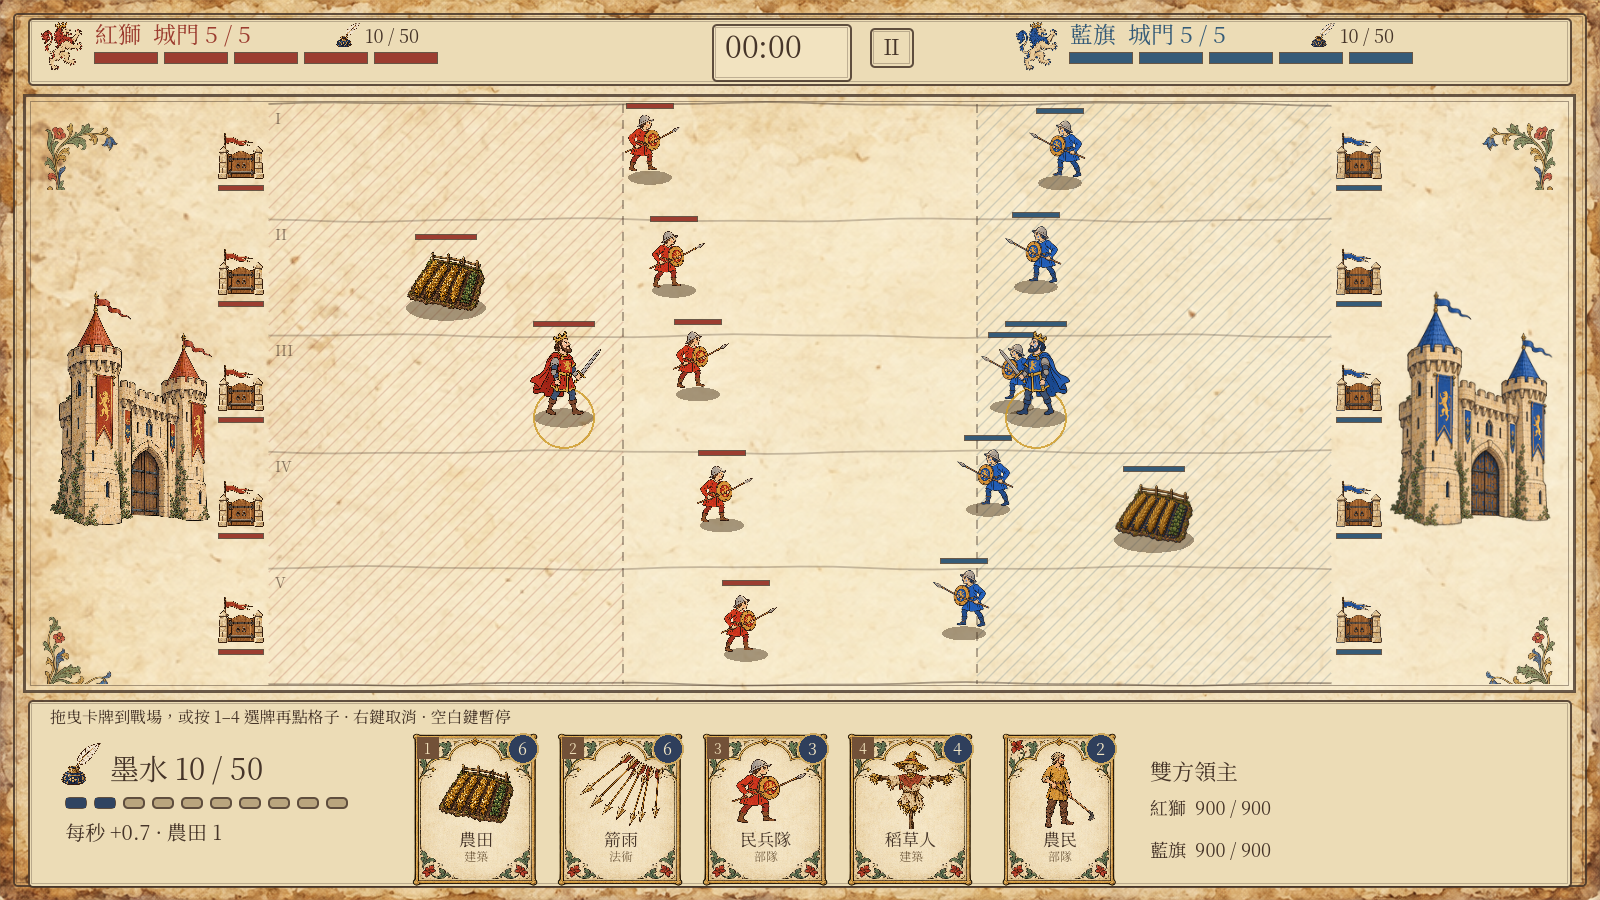
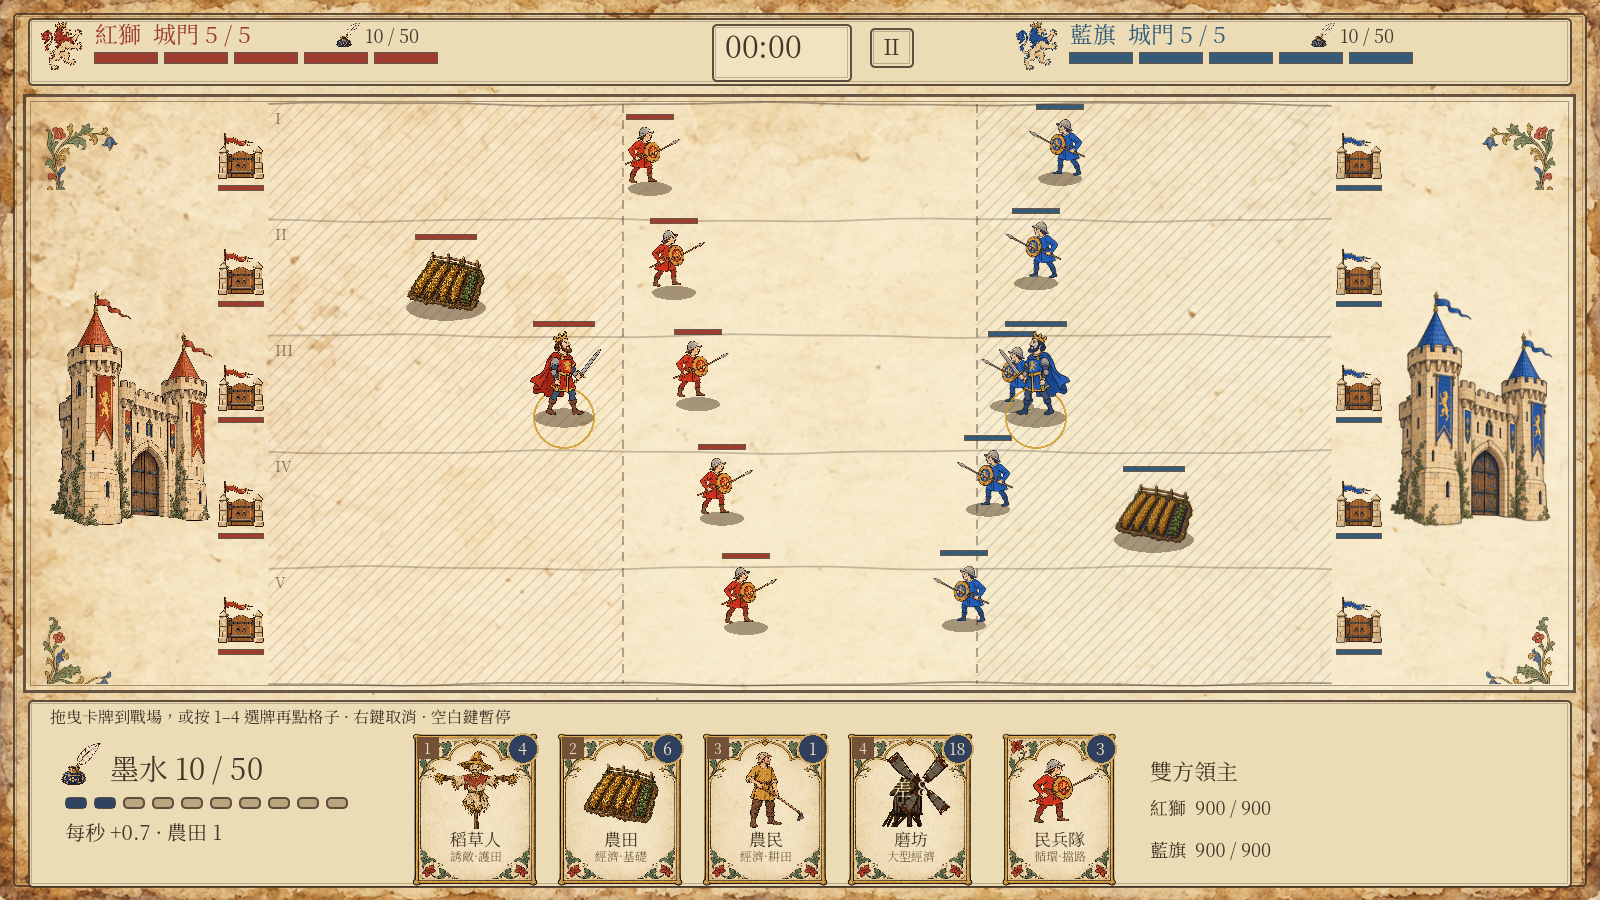
Card roles and a 1-30 ink cost range
Every card gets a role shown on its face (economy, cycle, swarm,
ranged, defence, tank, finisher...). Costs now run from 1 (farmer) to
30 (ram) with stats scaled to match: knight 15 / 1000 HP, mill 18 / x2
lane farms, fire 11 / 420 dmg, ram 30 / 1600 HP, 160 per hit on gates.
The AI sends the ram once it has 40 ink or the target gate is below 60%.
Card tests read numbers from balance.gd. Producer decision 2026-10-29.

diff --git a/docs/企劃書.md b/docs/企劃書.md
@@ -9,6 +9,7 @@
 >   - **卡牌只分三類：部隊、建築、法術。部隊一律往敵方前進，不會回頭。**
 >   - **領主完全由 AI 接管**（雙方），沒有手動操作。
 > - v4.1：**墨水上限 10 → 50**。墨水數字整體 ×2（費用、回復、產量），讓費用分得更細；出牌冷卻、AI 門檻、介面跟著調整。
+> - v4.7（2026-10-29）：卡牌依定位重排，費用 1–30（見第 11 節）。
 > - v4.6（2026-10-29）：領主只能待在自家領地（原始 3 欄部署區），刪除旋斬與號令技能。
 > - v4.4（2026-10-29）：城門 600 → 400 血；**城門破了以後，每個敵兵都要在門口停 3 秒拆殘垣才能走進去**，讓領主有時間回防。
 > - v4.3（2026-10-29）：**城門不會反擊，防守全靠領主**（加上部隊、建築、法術）。
@@ -126,44 +127,30 @@
 | **建築** | 我方原始部署區的**空格**（一格一個） | 固定不動，有生命值；會被敵方部隊攻擊。部分建築有存在時間。 |
 | **法術** | 戰場任意位置（包含敵方部署區） | 立即或短延遲生效，沒有實體。 |
 
-### 11. 卡池（15 張）
+### 11. 卡池（15 張，費用 1–30，v4.7 依定位重排）
 
-**部隊**
+費用越高，單張影響力越大；便宜的牌負責循環與補位，30 費的攻城槌是終結手段。卡面下方顯示「定位」。
 
-| 卡 | 墨水 | 內容 | 生命 | 攻擊 / 攻速 | 射程 | 移速 | 特性 |
-|---|---|---|---|---|---|---|---|
-| 農民 | 2 | 2 名 | 60 | 6 / 1.0s | 近戰 | 42 | 經過**同一路**的我方農田時停 1.5 秒耕地（每塊田只耕一次），然後繼續前進 |
-| 民兵隊 | 3 | 2 名 | 85 | 13 / 0.95s | 近戰 47 | 39 | 基本主力 |
-| 乾草叉暴民 | 5 | 5 名，出生時錯開 | 45 | 9 / 0.9s | 近戰 | 48 | 數量多、怕範圍法術 |
-| 獵戶 | 5 | 2 名 | 55 | 10 / 1.2s | 170 | 34 | 射程內有敵人就停下射（實體箭矢） |
-| 草藥婆 | 7 | 1 名 | 140 | 6 / 1.0s | 120 | 32 | 每秒為 120px 內我方部隊回 12 血 |
-| 耕牛 | 7 | 1 頭 | 420 | 20 / 1.2s | 近戰 | 70→30 | 撞到第一個目標造成 120 傷害＋擊退 30px，之後減速；對建築傷害 ×1.5 |
-| 騎士 | 10 | 1 名 | 600 | 40 / 1.2s | 近戰 | 32 | 重甲 |
-| 攻城槌 | 9 | 1 輛 | 420 | 對建築 60 / 2.0s | — | 20 | 不攻擊部隊、不被阻擋，只打建築與城門；城門已破就直接走進去 |
-
-**建築**
-
-| 卡 | 墨水 | 生命 | 存在時間 | 內容 |
+| 費 | 卡 | 類型 | 定位 | 重點數值 |
 |---|---|---|---|---|
-| 農田 | 6 | 250 | 永久 | 每 10 秒冒 1 滴（2 墨水）（第 8 節） |
-| 磨坊 | 10 | 700 | 永久 | 同一路農田產出 +50%；每方同時最多 1 座 |
-| 稻草人 | 4 | 400 | 25 秒 | 150px 內敵方部隊優先攻擊它（嘲諷），保護田地 |
-| 箭樓 | 7 | 500 | 40 秒 | 射程 200，18 傷害 / 0.8s；部隊不回頭，所以這是主要防守手段 |
+| 1 | 農民 | 部隊 | 經濟·耕田 | 2 名，50 血；經過同一路我方農田停 1.5 秒耕地，田 15 秒內產量 ×2 |
+| 3 | 民兵隊 | 部隊 | 循環·擋路 | 2 名，85 血，13 傷害 / 0.95s |
+| 3 | 豐收 | 法術 | 經濟·爆發 | 半徑 120 內我方農田立刻各冒 1 滴，8 秒內 ×2 |
+| 4 | 稻草人 | 建築 | 誘敵·護田 | 400 血、25 秒；150px 內敵兵優先打它 |
+| 5 | 乾草叉暴民 | 部隊 | 群攻 | 5 名，45 血，9 傷害 / 0.9s，怕範圍法術 |
+| 5 | 獵戶 | 部隊 | 遠程輸出 | 2 名，55 血，射程 170，實體箭矢 |
+| 6 | 農田 | 建築 | 經濟·基礎 | 250 血，每 10 秒冒 1 滴（2 墨水），回本約 30 秒 |
+| 6 | 箭雨 | 法術 | 清群法術 | 半徑 110，200 傷害；建築與城門 60 |
+| 7 | 箭樓 | 建築 | 防守 | 500 血、40 秒；射程 200，18 傷害 / 0.8s |
+| 8 | 草藥婆 | 部隊 | 支援·治療 | 160 血；每秒為 120px 內友軍回 15 血 |
+| 9 | 耕牛 | 部隊 | 衝鋒·拆建 | 520 血；首撞 150＋擊退 30px，拆建築 ×1.5 |
+| 11 | 火罐 | 法術 | 燒田法術 | 半徑 95，部隊 420、建築 840、城門 140 |
+| 15 | 騎士 | 部隊 | 主坦 | 1000 血，55 傷害 / 1.2s |
+| 18 | 磨坊 | 建築 | 大型經濟 | 900 血；同一路農田產量 ×2；每方 1 座 |
+| 30 | 攻城槌 | 部隊 | 終結·破門 | 1600 血，無視部隊，每 2 秒對城門／建築 160；城門破了直接走進去 |
 
-**法術**
-
-| 卡 | 墨水 | 內容 |
-|---|---|---|
-| 豐收 | 3 | 半徑 120 內我方農田立刻各冒 1 滴，並在 8 秒內 ×2 |
-| 箭雨 | 6 | 半徑 110，200 傷害；對建築與城門 60 |
-| 火罐 | 8 | 半徑 90，320 傷害、擊退 20px；對建築 ×2（燒田專用），對城門 100 |
-
-- 費用範圍 2–10，平均約 6。三組預設牌組的平均費用都控制在 5.5–6.5。
-
-- 預設牌組：
-  - **向日葵流**：農田、農民、豐收、磨坊、稻草人、箭樓、民兵隊、箭雨
-  - **穩健農莊**：農田、農民、民兵隊、獵戶、騎士、稻草人、箭樓、箭雨
-  - **劫掠隊**：農田、農民、乾草叉暴民、耕牛、攻城槌、獵戶、火罐、稻草人
+- 預設牌組平均費用：向日葵流 6.0、穩健農莊 5.9、劫掠隊 8.9。
+- AI 出 30 費攻城槌的時機：墨水 ≥ 40，或目標那一路的城門已掉到六成以下。
 
 ### 12. 城門與主堡
 
